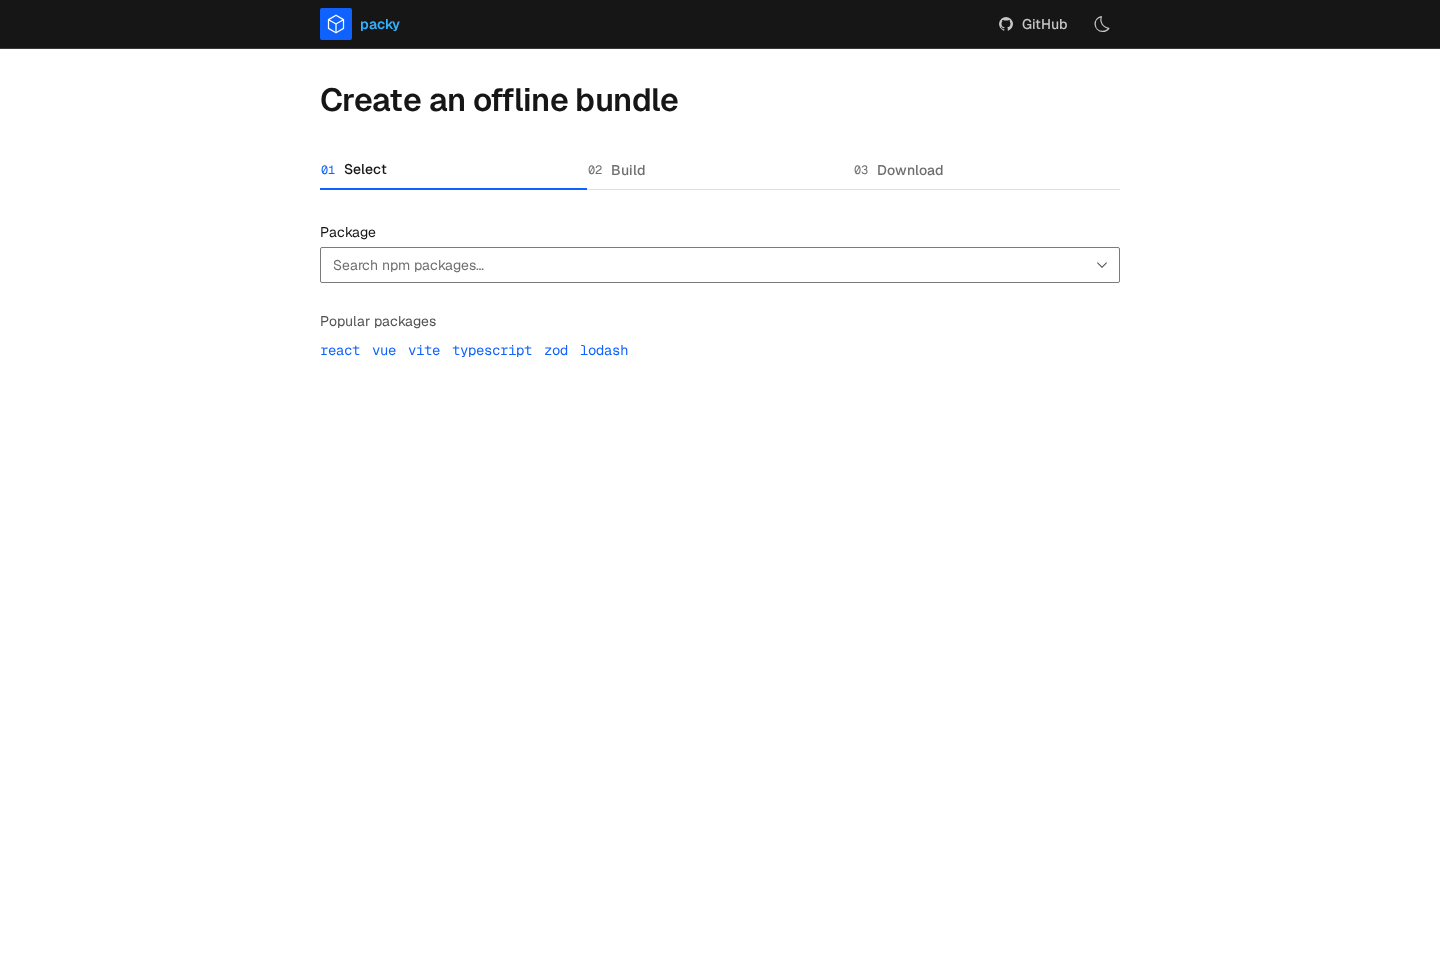
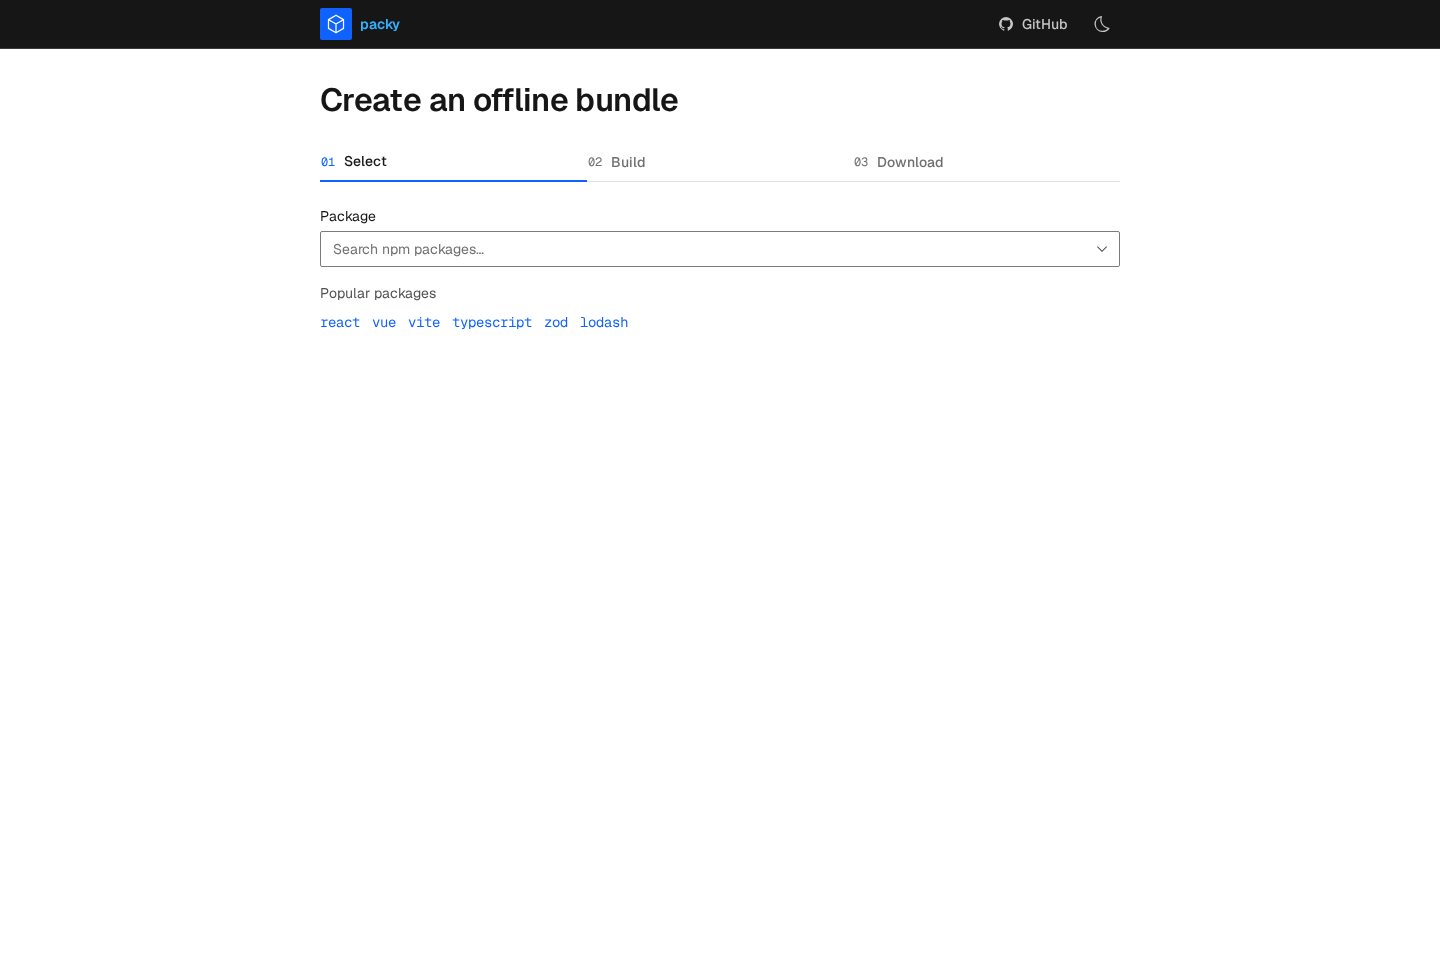
fix: tighten the workspace spacing
Reduce the page gap and the selected-state group spacing to a 24/12 rhythm, and let the idle field-to-popular-packages gap sit at 16px.

Changed region(s): [[0.2188, 0.1562, 0.4375, 0.375], [0.5938, 0.1562, 0.6562, 0.1875], [0.4062, 0.1562, 0.4688, 0.1875]]

diff --git a/src/components/package-picker.svelte b/src/components/package-picker.svelte
@@ -572,7 +572,7 @@
 			</Inline>
 		</Stack>
 	{:else if packument}
-		<Stack gap="2xl">
+		<Stack gap="xl">
 			<div class="package-header">
 				<Stack gap="xs">
 					<Text variant="subheading" as="h2">{packageName}</Text>
@@ -593,7 +593,7 @@
 				</Alert>
 			{/if}
 
-			<Stack gap="lg">
+			<Stack gap="md">
 				{#if customMode}
 					<div class="field">
 						<label class="field__label" for="version-spec">
@@ -682,7 +682,7 @@
 			{/if}
 		</Stack>
 	{:else}
-		<Stack gap="md">
+		<Stack gap="lg">
 			<Combobox
 				label="Package"
 				placeholder="Search npm packages…"
@@ -770,7 +770,6 @@
 		display: flex;
 		flex-direction: column;
 		gap: var(--space-2);
-		margin-top: var(--space-4);
 	}
 
 	.recommended__label {
@@ -820,7 +819,6 @@
 		align-items: center;
 		gap: var(--space-4);
 		flex-wrap: wrap;
-		margin-top: var(--space-2);
 	}
 
 </style>

diff --git a/src/app.css b/src/app.css
@@ -70,7 +70,7 @@ a {
 .page {
 	display: flex;
 	flex-direction: column;
-	gap: var(--space-6);
+	gap: var(--space-5);
 	width: 100%;
 	max-width: calc(
 		var(--layout-settings-max) + var(--layout-page-padding) +
